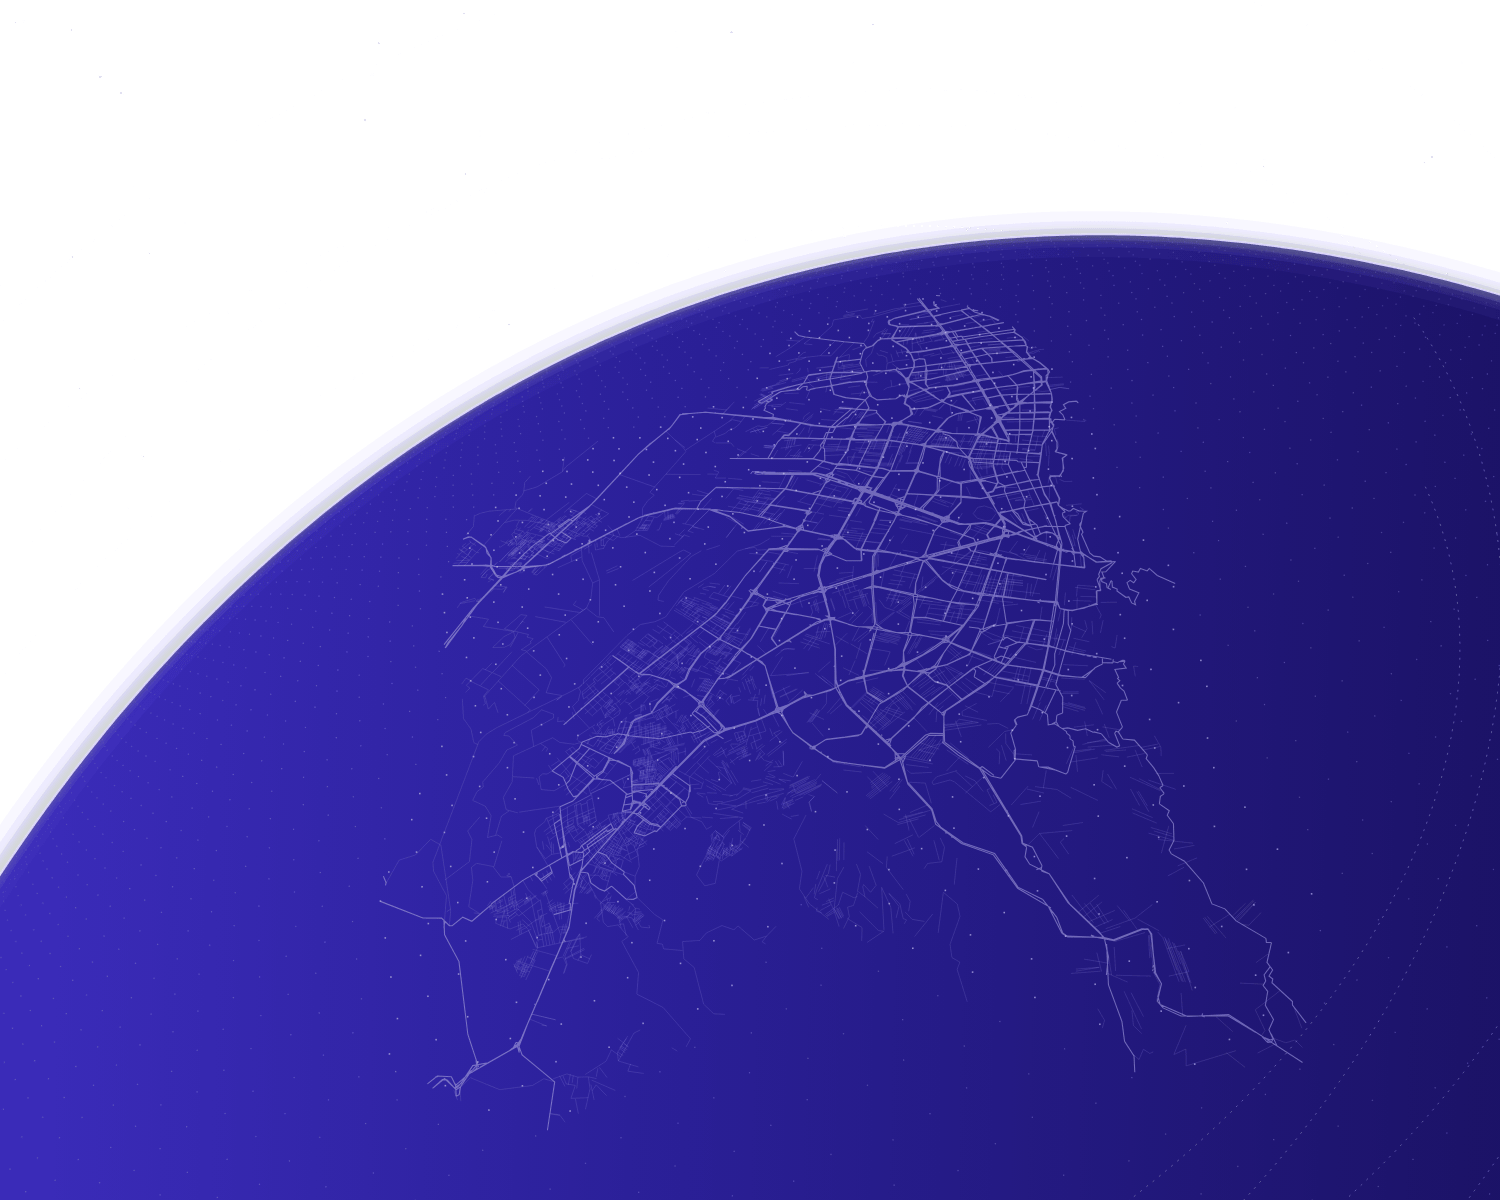
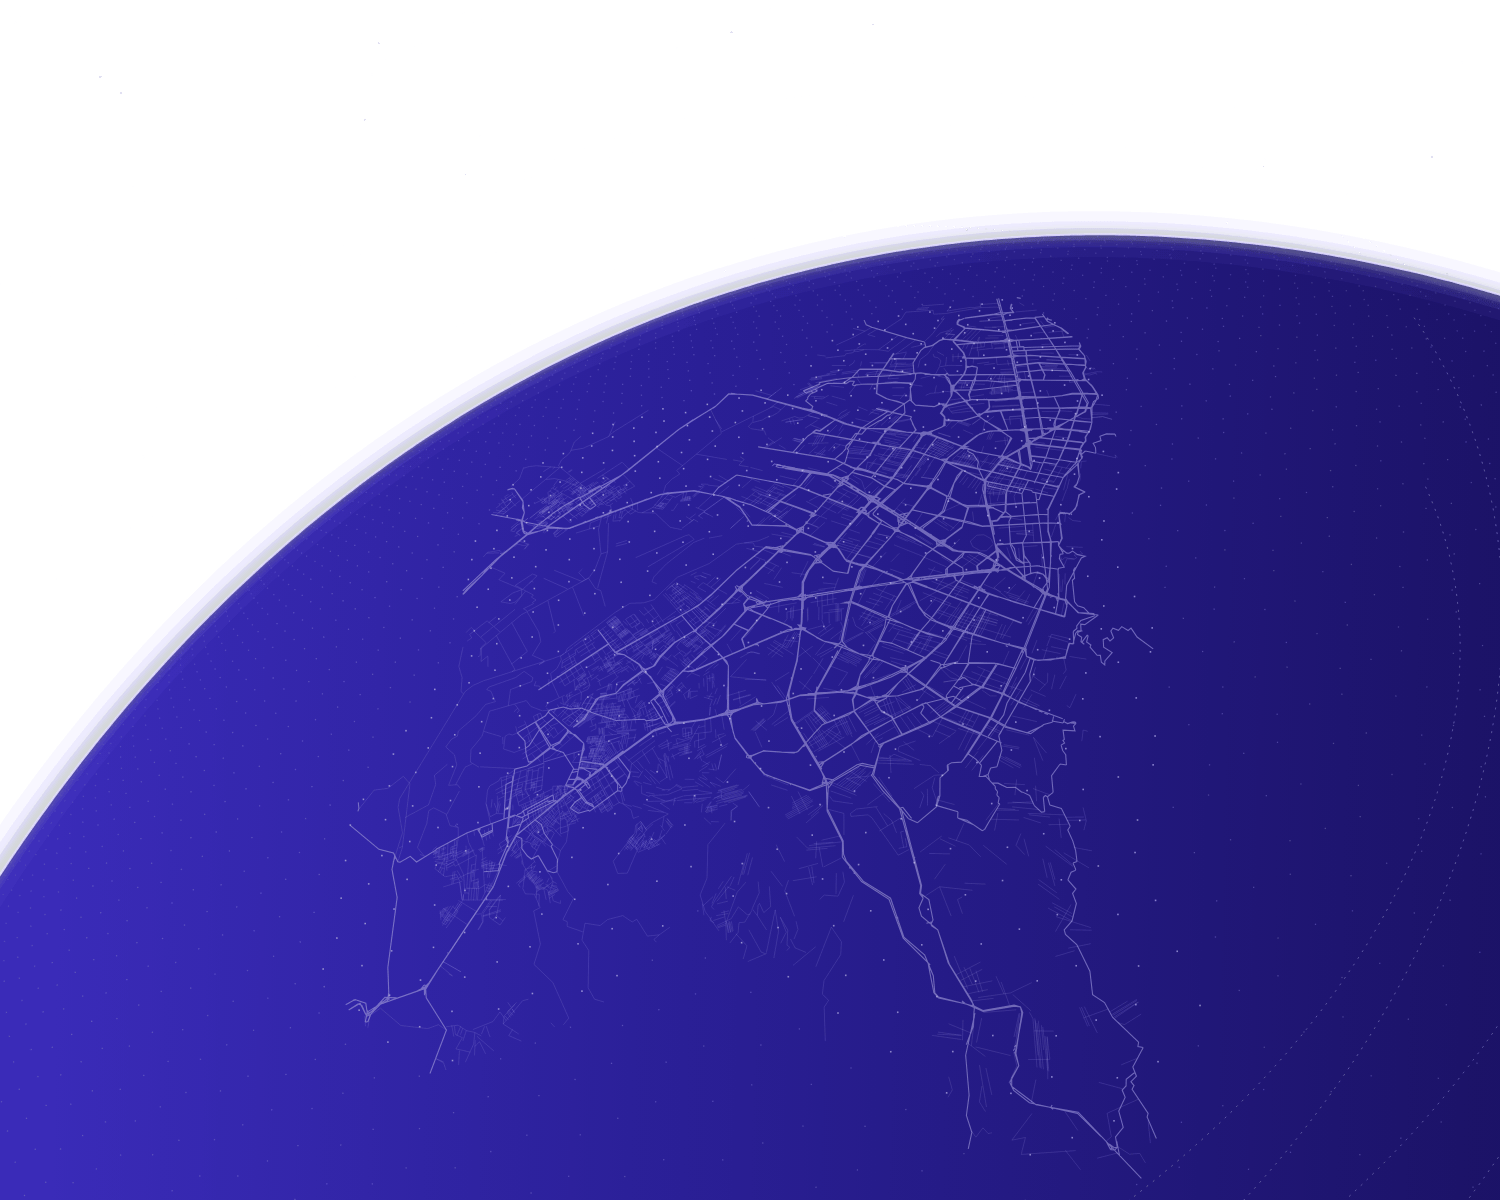
Planeta oblicuo: ciudad más girada (24°)
Claude-Session: https://claude.ai/code/session_01DxqiBbSv11VANarNNGiE5G

diff --git a/index.html b/index.html
@@ -14,8 +14,8 @@
     <link rel="icon" href="IMG/icon-192.png">
     <link rel="stylesheet" href="Styles/upgrade.css?v=22">
     <!-- El planeta es una imagen ya dibujada: se precarga la de cada dispositivo -->
-    <link rel="preload" href="IMG/planeta-oblicuo.png?v=9" as="image" type="image/png" media="(min-width: 901px) and (orientation: landscape)">
-    <link rel="preload" href="IMG/planeta-frontal.png?v=9" as="image" type="image/png" media="(max-width: 900px), (orientation: portrait)">
+    <link rel="preload" href="IMG/planeta-oblicuo.png?v=10" as="image" type="image/png" media="(min-width: 901px) and (orientation: landscape)">
+    <link rel="preload" href="IMG/planeta-frontal.png?v=10" as="image" type="image/png" media="(max-width: 900px), (orientation: portrait)">
     <script>document.documentElement.classList.add('js');</script>
 </head>
 <body>
@@ -346,7 +346,7 @@
 </div>
 </main>
 
-<script src="Scripts/planeta.js?v=31" defer></script>
+<script src="Scripts/planeta.js?v=32" defer></script>
 <script src="https://cdnjs.cloudflare.com/ajax/libs/leaflet/1.9.4/leaflet.min.js" defer></script>
 <script src="Scripts/scriptindex.js?v=2" defer></script>
 

diff --git a/Scripts/planeta.js b/Scripts/planeta.js
@@ -131,7 +131,7 @@
     const v = canvas.dataset.vista || (alLado() ? 'oblicuo' : 'frontal');   // data-vista fuerza una vista
     if (v === variante) return;
     variante = v;
-    canvas.style.backgroundImage = `url(${base}IMG/planeta-${v}.png?v=9)`;
+    canvas.style.backgroundImage = `url(${base}IMG/planeta-${v}.png?v=10)`;
     entregas = []; pings.length = 0;
     const usar = (d) => {
       if (variante !== v) return;
@@ -141,7 +141,7 @@
     };
     if (cache[v]) { usar(cache[v]); return; }
     rutas = [];
-    fetch(`${base}Scripts/planeta-${v}.json?v=10`)
+    fetch(`${base}Scripts/planeta-${v}.json?v=11`)
       .then((r) => (r.ok ? r.json() : Promise.reject()))
       .then((d) => {
         d.rutasListas = d.rutas.map((r) => ({ a: r.a, d: r.d, p: deshacer(r.p) }));

diff --git a/herramientas/planeta/LEEME.md b/herramientas/planeta/LEEME.md
@@ -36,7 +36,7 @@ Sirve para cambiar el ángulo, el encuadre o las calles. Necesita Python 3, Node
    node exp.js frontal 1600 1000 '{"ladeo":0,"rumbo":0,"giroMapa":0,"picada":42,"altura":0.42,"atras":0.42,"lente":0.84,"mira":[4.62,-74.14]}' '0.5,0.3' .
    ```
 
-4. Comprime los PNG con `pngquant --quality 80-98 --speed 1` (conserva la transparencia: el espacio debe quedar transparente, no negro) y copia los archivos a `IMG/` y `Scripts/`. Vista frontal actual: `"despLat":3.8,"sinOrbitas":true`; oblicua: `{"despLon":-0.3,"despLat":2.6,"giroMapa":-12}`.
+4. Comprime los PNG con `pngquant --quality 80-98 --speed 1` (conserva la transparencia: el espacio debe quedar transparente, no negro) y copia los archivos a `IMG/` y `Scripts/`. Vista frontal actual: `"despLat":3.8,"sinOrbitas":true`; oblicua: `{"despLon":-0.3,"despLat":2.6,"giroMapa":-24}`.
 
 Las perillas `despLat` y `despLon` corren solo la ciudad sobre el planeta (la cámara no se mueve). La perilla `giroMapa` gira la ciudad sobre el planeta sin mover la cámara: así cabe acostada en la vista frontal. Las perillas (`escala`, `mira`, `altura`, `atras`, `rumbo`, `picada`, `ladeo`, `lente`)
 están documentadas al inicio de `planeta-render.js`.
